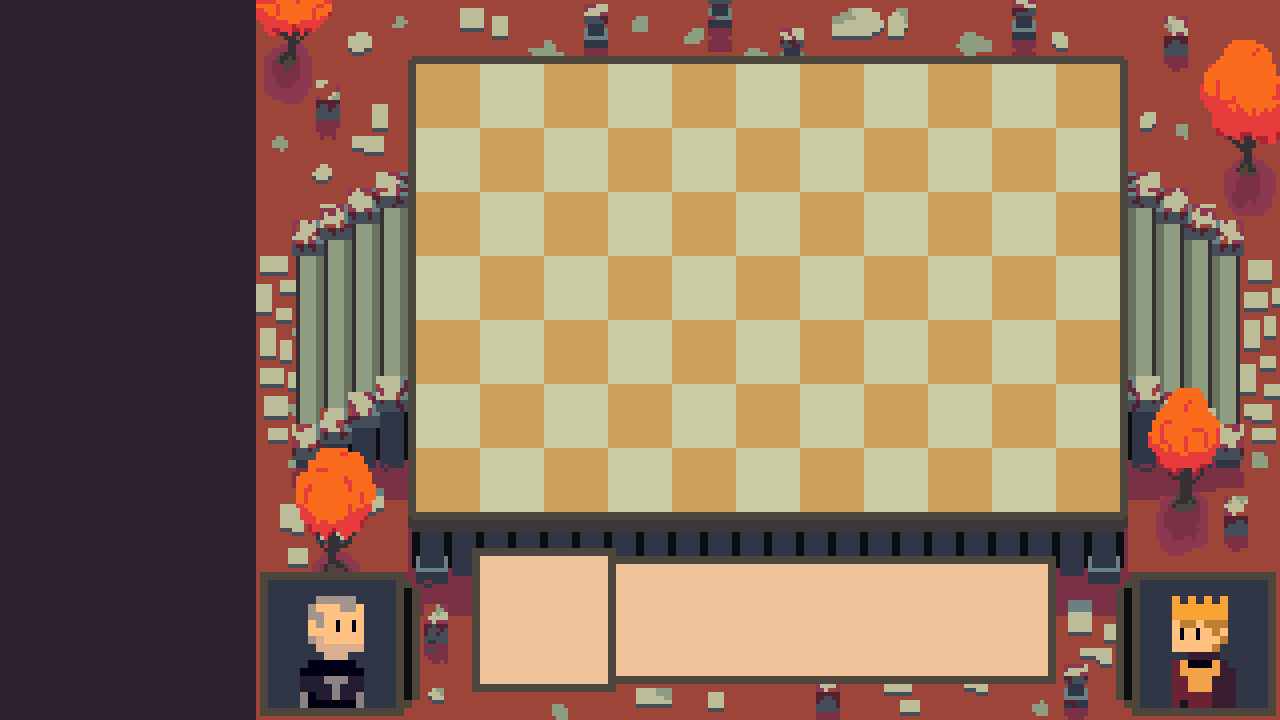
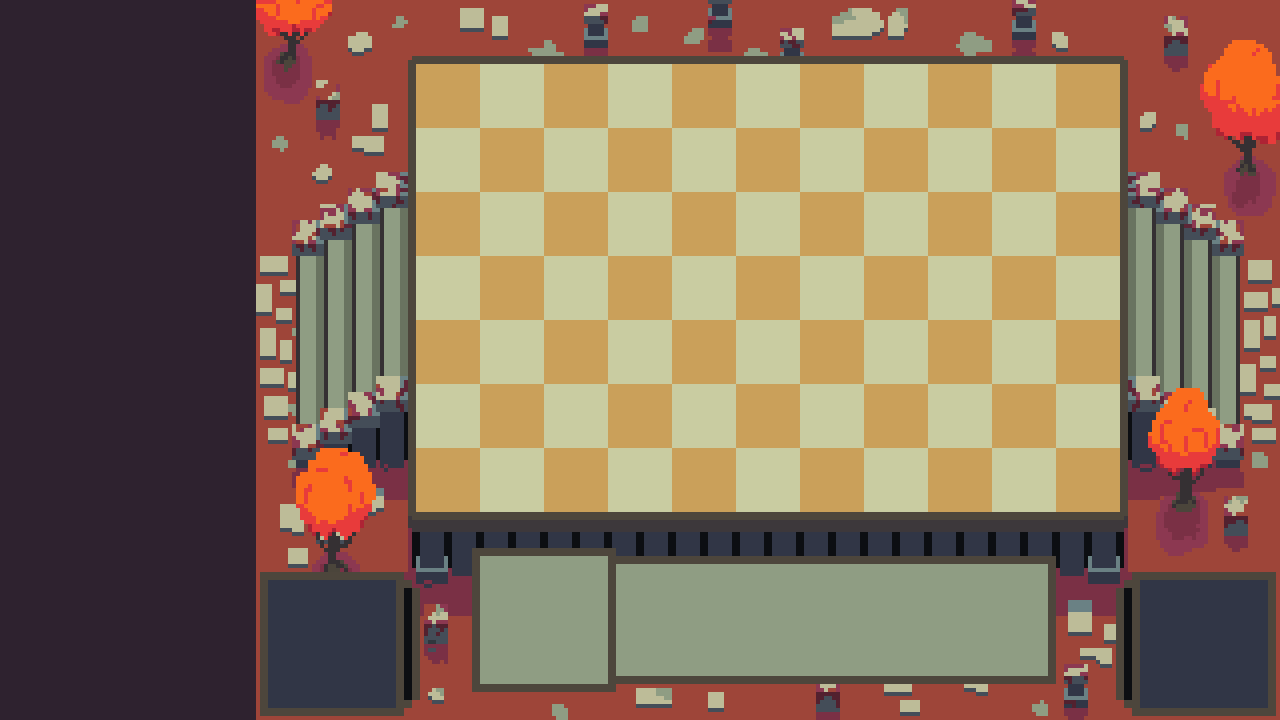
Mostrado de información in-game mejorado

Changed region(s): [[0.375, 0.7639, 0.8438, 0.9472], [0.9062, 0.825, 0.9688, 1.0], [0.2188, 0.825, 0.2812, 1.0]]

diff --git a/src/content.cpp b/src/content.cpp
@@ -80,15 +80,17 @@ void Assets::render(UmStatics statics, UmButtons buttons, VcPieces&pieces, VcNex
         batch->rect(Rect(404, 700, 8, (float)game.nexus1hp * (-112) / NEXUS_HP), Color("4d9be6")); // Vida azul
         batch->rect(Rect(1124, 700, 8, (float)game.nexus2hp * (-112) / NEXUS_HP), Color("ea4f36")); // Vida roja
 
-        // Turno de jugador TODO
-        if (game.turn % 2 == 0) batch->rect(Rect(416, 256, 64, 64), Color("#8a0da6"));
-        else batch->rect(Rect(1056, 256, 64, 64), Color("#8a0da6"));
+        // Turno de jugador
+        if (game.turn % 2 == 0) batch->rect(Rect(268, 580, 128, 128), Color("#9b5dab"));
+        else batch->rect(Rect(1140, 580, 128, 128), Color("#9b5dab"));
 
         renderPieceData(batch, pieces, statics, game);
 
         for (auto & piece : pieces) piece.draw(batch);
         for (auto & nexus : nexuses) nexus.draw(batch);
 
+        statics["leftPortrait"]->draw(batch);
+        statics["rightPortrait"]->draw(batch);
         statics["helpMenu"]->draw(batch);
 
         if (Time::seconds < load_msg_timer && save_msg_timer < load_msg_timer) {
@@ -296,6 +298,8 @@ void loadStatics(UmStatics& statics)
     statics.insert({"choosingBackground",new StaticSprite(0,     0, "data/img/choosingBackground.png",  true)});
     statics.insert({"userBackground",    new StaticSprite(0,     0, "data/img/userBackground.png",      true)});
     statics.insert({"emptyBackground",   new StaticSprite(0,     0, "data/img/emptyBackground.png",     true)});
+    statics.insert({"leftPortrait",      new StaticSprite(268, 580, "data/img/leftPortrait.png",        true)});
+    statics.insert({"rightPortrait",     new StaticSprite(1140,580, "data/img/rightPortrait.png",       true)});
     statics.insert({"helpMenu",          new StaticSprite(320,  64, "data/img/helpmenu.png",            false)});
     statics.insert({"spearmanLIcon",     new StaticSprite(480, 556, "data/img/icons/spearmanLIcon.png", true)});
     statics.insert({"spearmanRIcon",     new StaticSprite(480, 556, "data/img/icons/spearmanRIcon.png", true)});
@@ -546,7 +550,7 @@ std::string getIconKey(int id)
     }
 }
 
-char * getPieceName(int id) {
+char *getPieceName(int id) {
     switch (id) {
         case 0: return (char*) "Spearman";
         case 1: return (char*) "Wizard";
@@ -588,7 +592,10 @@ void renderPieceData(Batch *batch, VcPieces& pieces, UmStatics& statics, Game ga
                 batch->rect(Rect(pos.x + 4, pos.y + 4, 56, 56), Color("#ea4f36"));
             }
 
-            batch->str(font, getPieceName(piece.getPieceCode()), Vec2(620, 568), Color("#1ebc73"));
+            batch->str(font,
+                       getPieceName(piece.getPieceCode()),
+                       Vec2(620, 568),
+                       piece.id <= 12 ? Color("#4d65b4") : Color("#b33831"));
             writePieceHp(batch, piece);
             writePieceDmg(batch, piece);
         }
@@ -706,6 +713,14 @@ void writeUserData(Batch *batch, User user)
 User* Login::runSetup(DBManager& dbManager, bool& exit)
 {
     int op = 0;
+    std::cout << "  /$$$$$$  /$$                                           /$$$$$$ " << std::endl;
+    std::cout << " /$$__  $$| $$                                          /$$__  $$" << std::endl;
+    std::cout << "| $$  \\__/| $$$$$$$   /$$$$$$   /$$$$$$$ /$$$$$$$      |__/  \\ $$" << std::endl;
+    std::cout << "| $$      | $$__  $$ /$$__  $$ /$$_____//$$_____/        /$$$$$$/" << std::endl;
+    std::cout << "| $$      | $$  \\ $$| $$$$$$$$|  $$$$$$|  $$$$$$        /$$____/ " << std::endl;
+    std::cout << "| $$    $$| $$  | $$| $$_____/ \\____  $$\\____  $$      | $$      " << std::endl;
+    std::cout << "|  $$$$$$/| $$  | $$|  $$$$$$$ /$$$$$$$//$$$$$$$/      | $$$$$$$$" << std::endl;
+    std::cout << " \\______/ |__/  |__/ \\_______/|_______/|_______/       |________/" << std::endl << std::endl;
     std::cout << "Choose an option:" << std::endl;
     std::cout << "1) Log in" << std::endl;
     std::cout << "2) Register" << std::endl;
